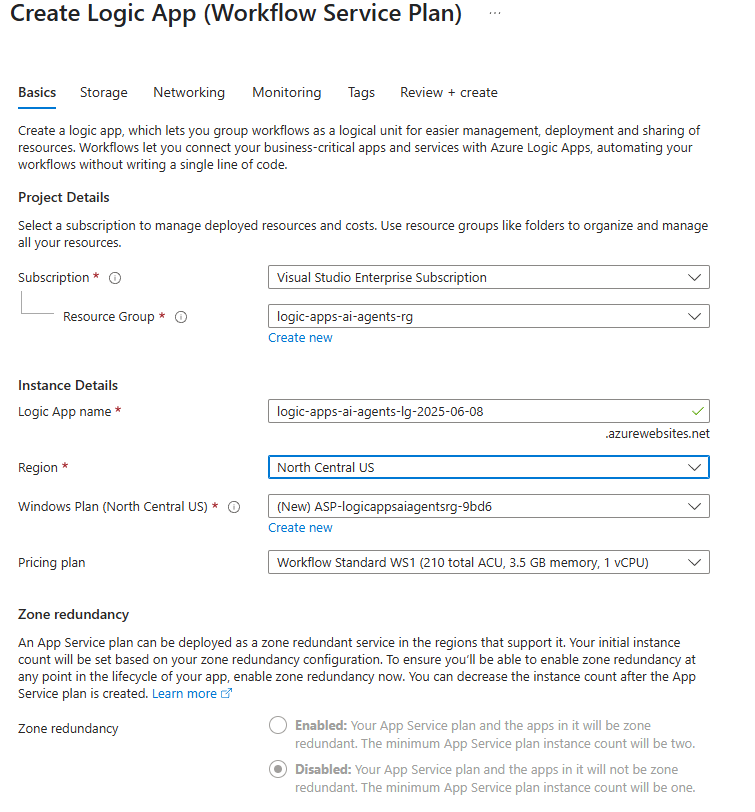
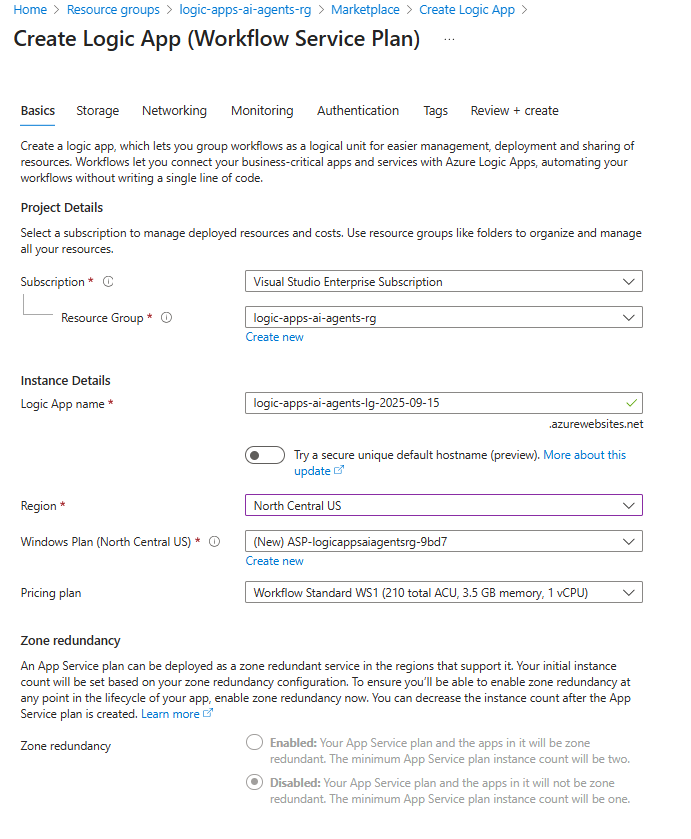
updated sections: 04 - ServiceNow Sandbox Provisioning - new ouath inbound integrations config 05 - Logic Apps Standard provisioning - updated resource names and managed identity configuration 06 - Knowledge Base Confgiuration - updated resource names and IAM setup

diff --git a/docs/logic-apps-agent-in-a-day/04_servicenow_dev_sandbox.md b/docs/logic-apps-agent-in-a-day/04_servicenow_dev_sandbox.md
@@ -40,29 +40,28 @@ A ServiceNow environment will be required to enable our integration to create an
 ## Configure OAuth Authentication 
 We will need to configure an OAuth API endpoint to enable our logic apps to authenticate to our ServiceNow instance
 
-1. Navigate to the `OAuth -> Application Registry` section
+1. Navigate to the `OAuth -> Inbound Integrations` section
     - Using the top navigation menu
       - Select `All`
       - Enter `OAuth` in the search box
-      - Select `Application Registry`
+      - Select `Inbound Integrations`
 
-      ![Menu OAuth Application Registry](./images/02_05_menu_application_registry.png "menu oauth application registry")
+      ![Menu OAuth Inbound Integrations](./images/02_05_menu_inbound_integrations.png "menu oauth inbound integrations")
 
-1. Select `New`
+1. Select `New Integration`
 
-    ![New Application Registry](./images/02_06_application_registry_new_button.png "new application registry")
+    ![New Integration](./images/02_06_inbound_integrations_new_integration.png "new integration")
 
-1. Select `Create an OAuth API endpoint for external clients`
+
+1. Select `OAuth - Authorization code grant`
   
-    ![Create OAuth API Endpoint](./images/02_07_create_oauth_api_endpoint_external_clients.png "create oauth api endpoint")
+    ![Create OAuth Authorization Grant](./images/02_07_create_oauth_authorization_grant.png "create oauth api endpoint")
 
 1. Configure the OAuth API endpoint as follows:
     - **Name:** `logic-apps-client`
-    - **Client Secret:** [leave blank]
-      - this will be auto generated on save
     - **Redirect URL:** https://logic-apis-northcentralus.consent.azure-apim.net/redirect
      - Click `Submit`
 
-    ![Configure OAuth API Endpoint](./images/02_08_oauth_client_config.png "configure oauth api endpoint")
+    ![Configure OAuth API Endpoint](./images/02_08_oauth_authorization_code_grant_config.png "configure oauth api endpoint")
 
 1. Save the `Client ID`, `Client Secret` and the `Instance Name` created in this module for later steps when configuring the Logic Apps connection to ServiceNow

diff --git a/docs/logic-apps-agent-in-a-day/05_provision_logic_apps_standard.md b/docs/logic-apps-agent-in-a-day/05_provision_logic_apps_standard.md
@@ -27,12 +27,29 @@ In this module we will provision a Logic Apps Standard instance enabling us to c
     - **Resource Group:** `logic-apps-ai-agents-rg`
     - **Logic App Name:** `logic-apps-ai-agents-<some-unique-extension>` **(in the example initials and date were used)**
     - **Region:** `North Central US`
-    - **Click:** `Review + Create`
     
     ![Configure Logic Apps Instance](./images/05_04_configure_logic_apps_instance.png "configure logic apps instance")
 
+1. Click `Authentication` and configure the following:
+   
+   - **Host Storage (AzureWebJobsStorage)** - `Managed identity`
+   - **Application Insights** - `Managed identity`
+    - **Click:** `Review + Create`
+
+   ![Configure Logic Apps Instance - Authentication](./images/05_04_configure_logic_apps_instance_authentication.png "configure logic apps instance authentication")
+
+   **Note:** enabling managed identities will allow logic apps to securely authenticate and access Azure Blob Storage and Application Insights without needing to manage credentials like passwords or secrets.
 
 1. Review the configuration and click `Create`
 
     ![Review Configuration and Create](./images/05_05_review_create_logic_apps_instance.png "review configuration and create")    
 
+
+1. This will start the deployment of your Logic Apps instance 
+
+    ![Deployment In Progress](./images/05_06_deployment_in_progress.png "deployment in progress")
+
+
+1. Once the deployment is completed, you will see the following screen and the button `Go to resource` that will open the Azure Logic Apps you just deployed
+
+    ![Deployment Complete](./images/05_07_deployment_complete.png "deployment complete")

diff --git a/docs/logic-apps-agent-in-a-day/06_setup_knowledge_base.md b/docs/logic-apps-agent-in-a-day/06_setup_knowledge_base.md
@@ -41,9 +41,7 @@ In this module we will provision an Azure Storage account that will hold our ope
 
 
 1. Upload the playbook to the container by clicking `Upload`
-
-    ![Upload playbook](./images/06_06_upload_playbook.png "Upload playbook")
-
+ 
     ![Upload playbook](./images/06_06_upload_playbook.png "upload playbook")
 
 1. Download the knowledge base - [Agent in a Day - Operational Runbook.docx](./resources/Agent%20in%20a%20Day%20-%20Operational%20Runbook.docx "download playbook")
@@ -93,3 +91,6 @@ We will need to grant the Logic Apps instance access to read the blobs in our st
     - Click `Select`
     - Click `Close`
 
+1. Click `Review + Assign`
+
+    ![IAM Review and Assign](./images/06_13_iam_review_assign.png "iam review and assign")
